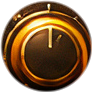
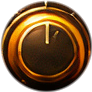
fix: Output knob'lari dogru merkezden yeniden kesildi (MASTER 3547,479 / THRESH 3783,473; eski merkez 9 ve 4 px kaymisti, donerken bombeli gorunuyordu). Enhancer hazir ayarlari (ANALOG/VINYL/TAPE) knob'lari yeniden kurunca knob'lar konumsuz kaliyordu: konumlar artik CSS'te

diff --git a/src/preload.js b/src/preload.js
@@ -2757,7 +2757,8 @@ if (isAutotunePage()) {
     /* cap sprite size relative to its base (cut from the same reference): cream/dark 62/92, red 64/92, master 128/208 */
     .skin .knob::after { background-size:67.4% 67.4%; }
     .skin .knob.red::after { background-size:69.6% 69.6%; }
-    .skin .knob.big::after { background-size:61.5% 61.5%; }
+    .skin .knob.big::after { background-size:62.5% 62.5%; }
+    .skin .knob.dark::after { background-size:69.6% 69.6%; }
 
     .skin .knob.red::before { background-image:${T('sk-st-kred-base.png')}; }
     .skin .knob.red::after { background-image:${T('sk-st-kred-cap.png')}; }
@@ -2850,6 +2851,11 @@ if (isAutotunePage()) {
     }
     .skin .eqrow .txt, .skin .txt { box-sizing:border-box; min-width:0; padding:0 calc(20 / 4344 * 100cqw); line-height:1; font-size:.43cqw; }
     .skin .section.enh .knob-box { font-size:0; }
+    /* preset buttons rebuild the Enhancer knobs: place them by position, not once by script */
+    .skin .section.enh .fxknobs > .knob-box:nth-child(1) { position:absolute; left:64.1344%; top:11.3260%; width:2.1179%; height:6.3536%; }
+    .skin .section.enh .fxknobs > .knob-box:nth-child(2) { position:absolute; left:67.1041%; top:11.3260%; width:2.1179%; height:6.3536%; }
+    .skin .section.enh .fxknobs > .knob-box:nth-child(3) { position:absolute; left:70.0276%; top:11.3260%; width:2.1179%; height:6.3536%; }
+    .skin .section.enh .fxknobs > .knob-box:nth-child(4) { position:absolute; left:72.9052%; top:11.3260%; width:2.1179%; height:6.3536%; }
     .skin .section.enh .knob-box .knob { inset:auto; left:50%; top:0; width:calc(92 / 4344 * 100cqw); height:calc(92 / 4344 * 100cqw); transform:translateX(-50%); }
     .skin .section.output .knob-box { font-size:0; }
     .skin .section.output .knob-box .knob { inset:0; }
@@ -3241,7 +3247,7 @@ if (isAutotunePage()) {
       const enhBtns=qa(enhSection,'.switches > .btn'); stPlace(enhBtns[0],2778,333,3262,393);
       enhBtns.slice(1).forEach((el,i)=>stPlace(el,[[2780,420,2930,480],[2950,420,3097,480],[3117,420,3262,480]][i][0],420,[[2780,420,2930,480],[2950,420,3097,480],[3117,420,3262,480]][i][2],480));
       const vus=q(outSection,'.vus'); qa(vus,'.vu').forEach((el,i)=>stPlace(el,...(i===0?[3368,172,3648,365]:[3675,172,3952,365])));
-      const outKnobs=qa(outSection,'.knob-box'); outKnobs.forEach((el,i)=>stPlace(el,...(i===0?[3443,366,3651,574]:[3734,423,3826,515])));
+      const outKnobs=qa(outSection,'.knob-box'); outKnobs.forEach((el,i)=>stPlace(el,...(i===0?[3443,375,3651,583]:[3737,427,3829,519])));
       stPlace(q(outSection,'.limiter'),3553,655,3743,715);
       const chainRow=q(chainSection,'.st-chainrow'); qa(chainRow,'.st-mod').forEach((el,i)=>{el.style.flex='0 1 calc('+[450,450,175,175,270,175,175,175,270,270,260,270,270,260][i]+' / 4344 * 100cqw)';});
       const chainbar=q(chainSection,'.st-chainbar'); stPlace(chainbar,973,845,2320,902); chainbar.classList.add('st-placed');

diff --git a/design/tools/studio_knobs.py b/design/tools/studio_knobs.py
@@ -5,5 +5,5 @@ def kn(n, cx, cy, R, rc):
     s = rc+2; c = crop((cx-s, cy-s, cx+s, cy+s)); save(c, f'sk-st-{n}-cap.png', disc_alpha(2*s,2*s,s,s,rc,1.6))
 kn('kcream', 2961, 208, 46, 29)
 kn('kred', 3213, 210, 46, 30)
-kn('kdark', 3780, 469, 46, 29)
-kn('kmaster', 3547, 470, 104, 62)
+kn('kdark', 3783, 473, 46, 30)
+kn('kmaster', 3547, 479, 104, 63)
